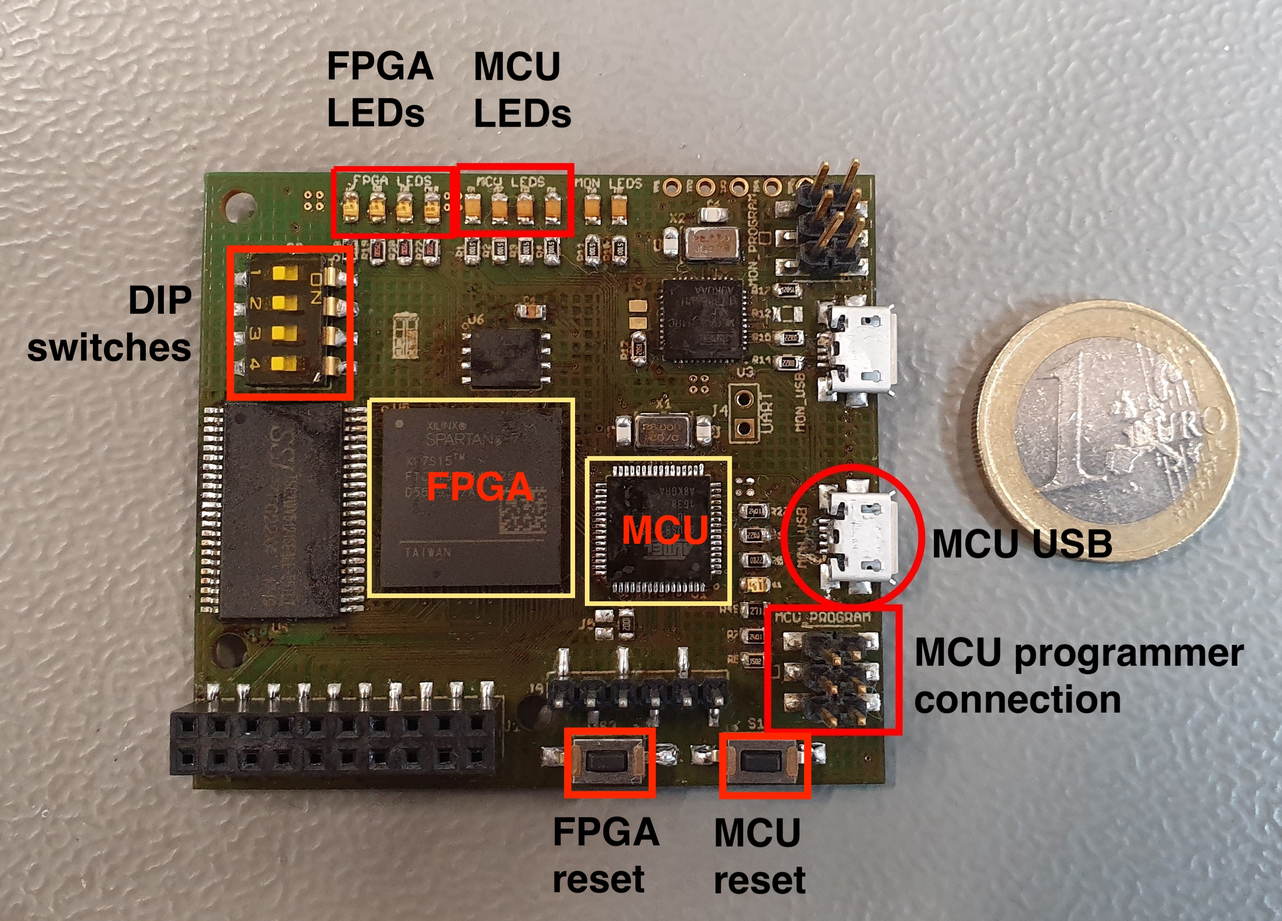
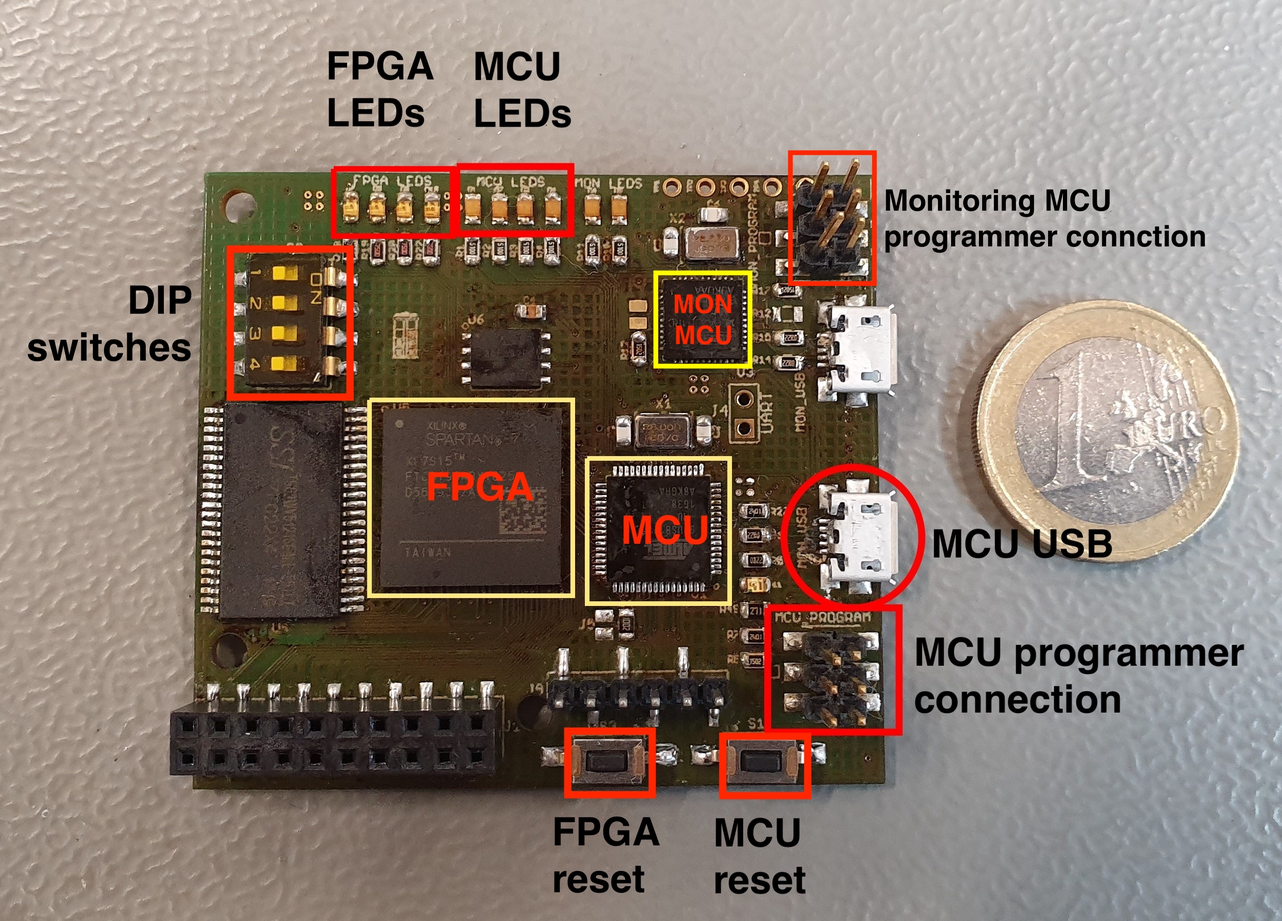
added energy monitoring guide

Changed region(s): [[0.4982, 0.1562, 0.9341, 0.406]]

diff --git a/docs/EnergyMonitoring.md b/docs/EnergyMonitoring.md
@@ -1,0 +1,61 @@
+# Energy Monitoring
+
+By using the second MCU on the elastic node you can measure the power the elastic node consumes during an experiment.
+You should be familiar with the the [WriteOwnProgramGuide](WriteOwnProgramGuide.md).
+
+## Monitoring MCU
+
+The code for the monitoring MCU usually does not change.
+For uploading code to the monitoring MCU you need to connect the programmer to it. The connections are labeled [here](images/elasticNodelabeled.jpg).
+The platform changes to 'ElasticNode_v4_monitor' as it is another MCU.
+
+    $ bazel run //app:currentSenseApp --platforms=@AvrToolchain//platforms:ElasticNode_v4_monitor
+
+//TODO How to include it (or use other project for the moment?)
+
+//TODO Code does not change?
+
+## Example
+
+In the example each second one led more blinks. After that all turn off and the experiment starts again.
+
+You can upload the code for the main MCU as usual with
+
+    $ bazel run //app/examples:monitoringExample_upload --platforms=@AvrToolchain//platforms:ElasticNode_v4
+    
+To check if everything works see 'Get results' underneath.
+
+## Inclusion in own code
+
+The code for the main MCU needs the inclusion
+```c
+#include "src/sub-system/sub-system.h"
+```
+
+and the dependency in bazel
+
+```bazel
+"@ElasticNodeMiddleware//:sub-system",
+```
+
+## Get results
+
+You need to set the serial port to your elastic node and programmer and the path to your data folder in the config.py.
+The micro-USB as well as the programmer should be connected to the monitoring MCU.
+Now you can run the python script with
+
+    $ bazel run analysis argument
+
+List of arguments
+
+capture: The output is written in a .csv file in the data folder.
+
+print: Prints the current output to the console
+
+live: draws a graph of the power consumption
+
+debug: Puts out everything in hex
+
+reset: Resets the monitoring MCU
+
+With no arguments, the script is in capture mode. 

diff --git a/docs/WriteOwnProgramGuide.md b/docs/WriteOwnProgramGuide.md
@@ -110,6 +110,7 @@ default_embedded_binary(
         "@ElasticNodeMiddleware//:UartLib",
         "@ElasticNodeMiddleware//:XMemLib",
         "@ElasticNodeMiddleware//:BitmanipulationLib",
+        "@ElasticNodeMiddleware//:sub-system",
         "@ElasticNodeMiddleware//app/setup:Setup",
     ],
 ) 
